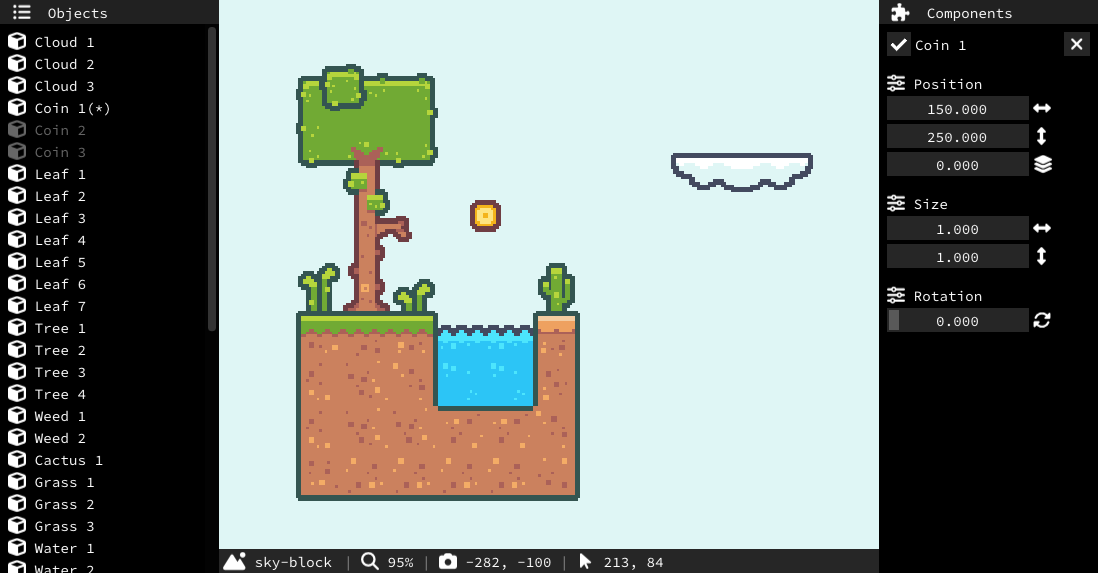
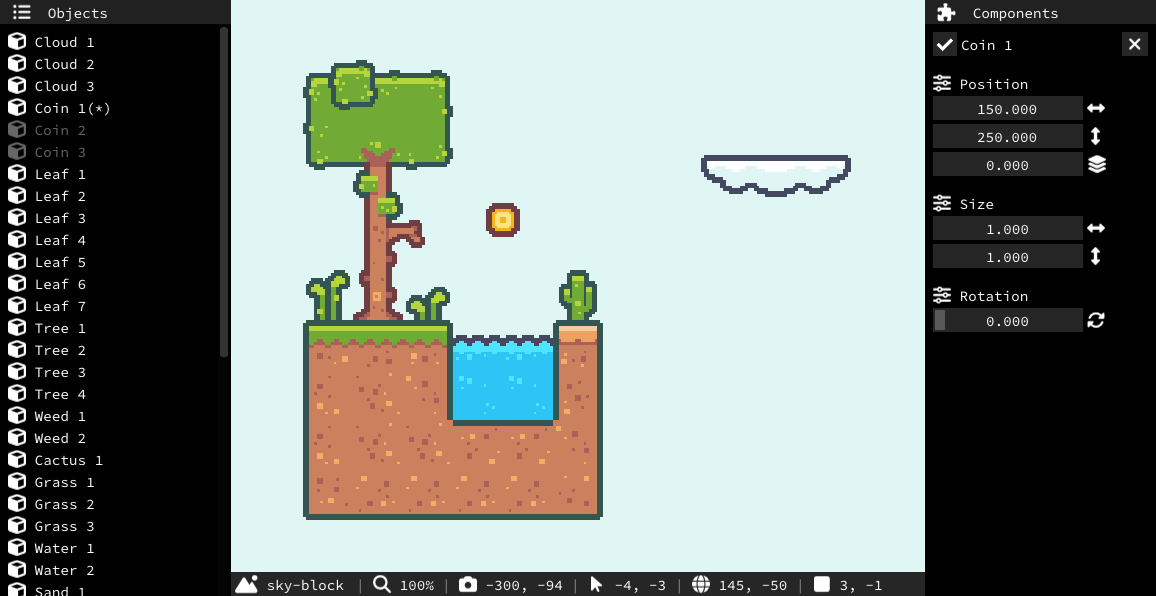
more details from mouse position in editor

diff --git a/source/interface.cpp b/source/interface.cpp
@@ -195,7 +195,7 @@ Interface::details()
     static const float button_height    = GetItemRectSize().y;
     static const ImVec2 window_padding  = {0.00f, 0.00f};
     static const ImVec4 button_color    = {0.15f, 0.15f, 0.15f, 1.0f};
-    static glm::vec2 camera_pos;
+    static glm::vec2 camera_pos, mouse_pos, world_pos, tile_pos;
     static bool hover;
 
     SetNextWindowPos
@@ -246,7 +246,8 @@ Interface::details()
     TextDisabled("|");
     SameLine();
 
-    camera_pos = Application::camera.get_position();
+    camera_pos   = Application::camera.get_position();
+
     Text
     (
         (
@@ -259,6 +260,18 @@ Interface::details()
 
     if (mouse_hovers_scene())
     {
+        // todo: zoom
+        mouse_pos    = Window::mouse_pos;
+        mouse_pos   -= Window::size * 0.5f;
+
+        world_pos    = mouse_pos;
+        world_pos   -= camera_pos * 0.5f;
+        world_pos.y += camera_pos.y;  // workaround(?)
+
+        tile_pos     = world_pos;
+        tile_pos    /= Application::rect_size * 0.5f;
+        tile_pos    += 0.5f;
+
         SameLine();
         TextDisabled("|");
         SameLine();
@@ -267,9 +280,37 @@ Interface::details()
         (
             (
                 ICON_FA_ARROW_POINTER " "
-                + std::to_string((int) (Window::mouse_pos.x - Window::size.x * 0.5f))
+                + std::to_string((int) mouse_pos.x)
                 + ", "
-                + std::to_string((int) (Window::mouse_pos.y - Window::size.y * 0.5f))
+                + std::to_string((int) mouse_pos.y)
+            ).c_str()
+        );
+
+        SameLine();
+        TextDisabled("|");
+        SameLine();
+
+        Text
+        (
+            (
+                ICON_FA_GLOBE " "
+                + std::to_string((int) world_pos.x)
+                + ", "
+                + std::to_string((int) world_pos.y)
+            ).c_str()
+        );
+
+        SameLine();
+        TextDisabled("|");
+        SameLine();
+
+        Text
+        (
+            (
+                ICON_FA_SQUARE " "
+                + std::to_string((int) std::floor(tile_pos.x))
+                + ", "
+                + std::to_string((int) std::floor(tile_pos.y))
             ).c_str()
         );
     }
